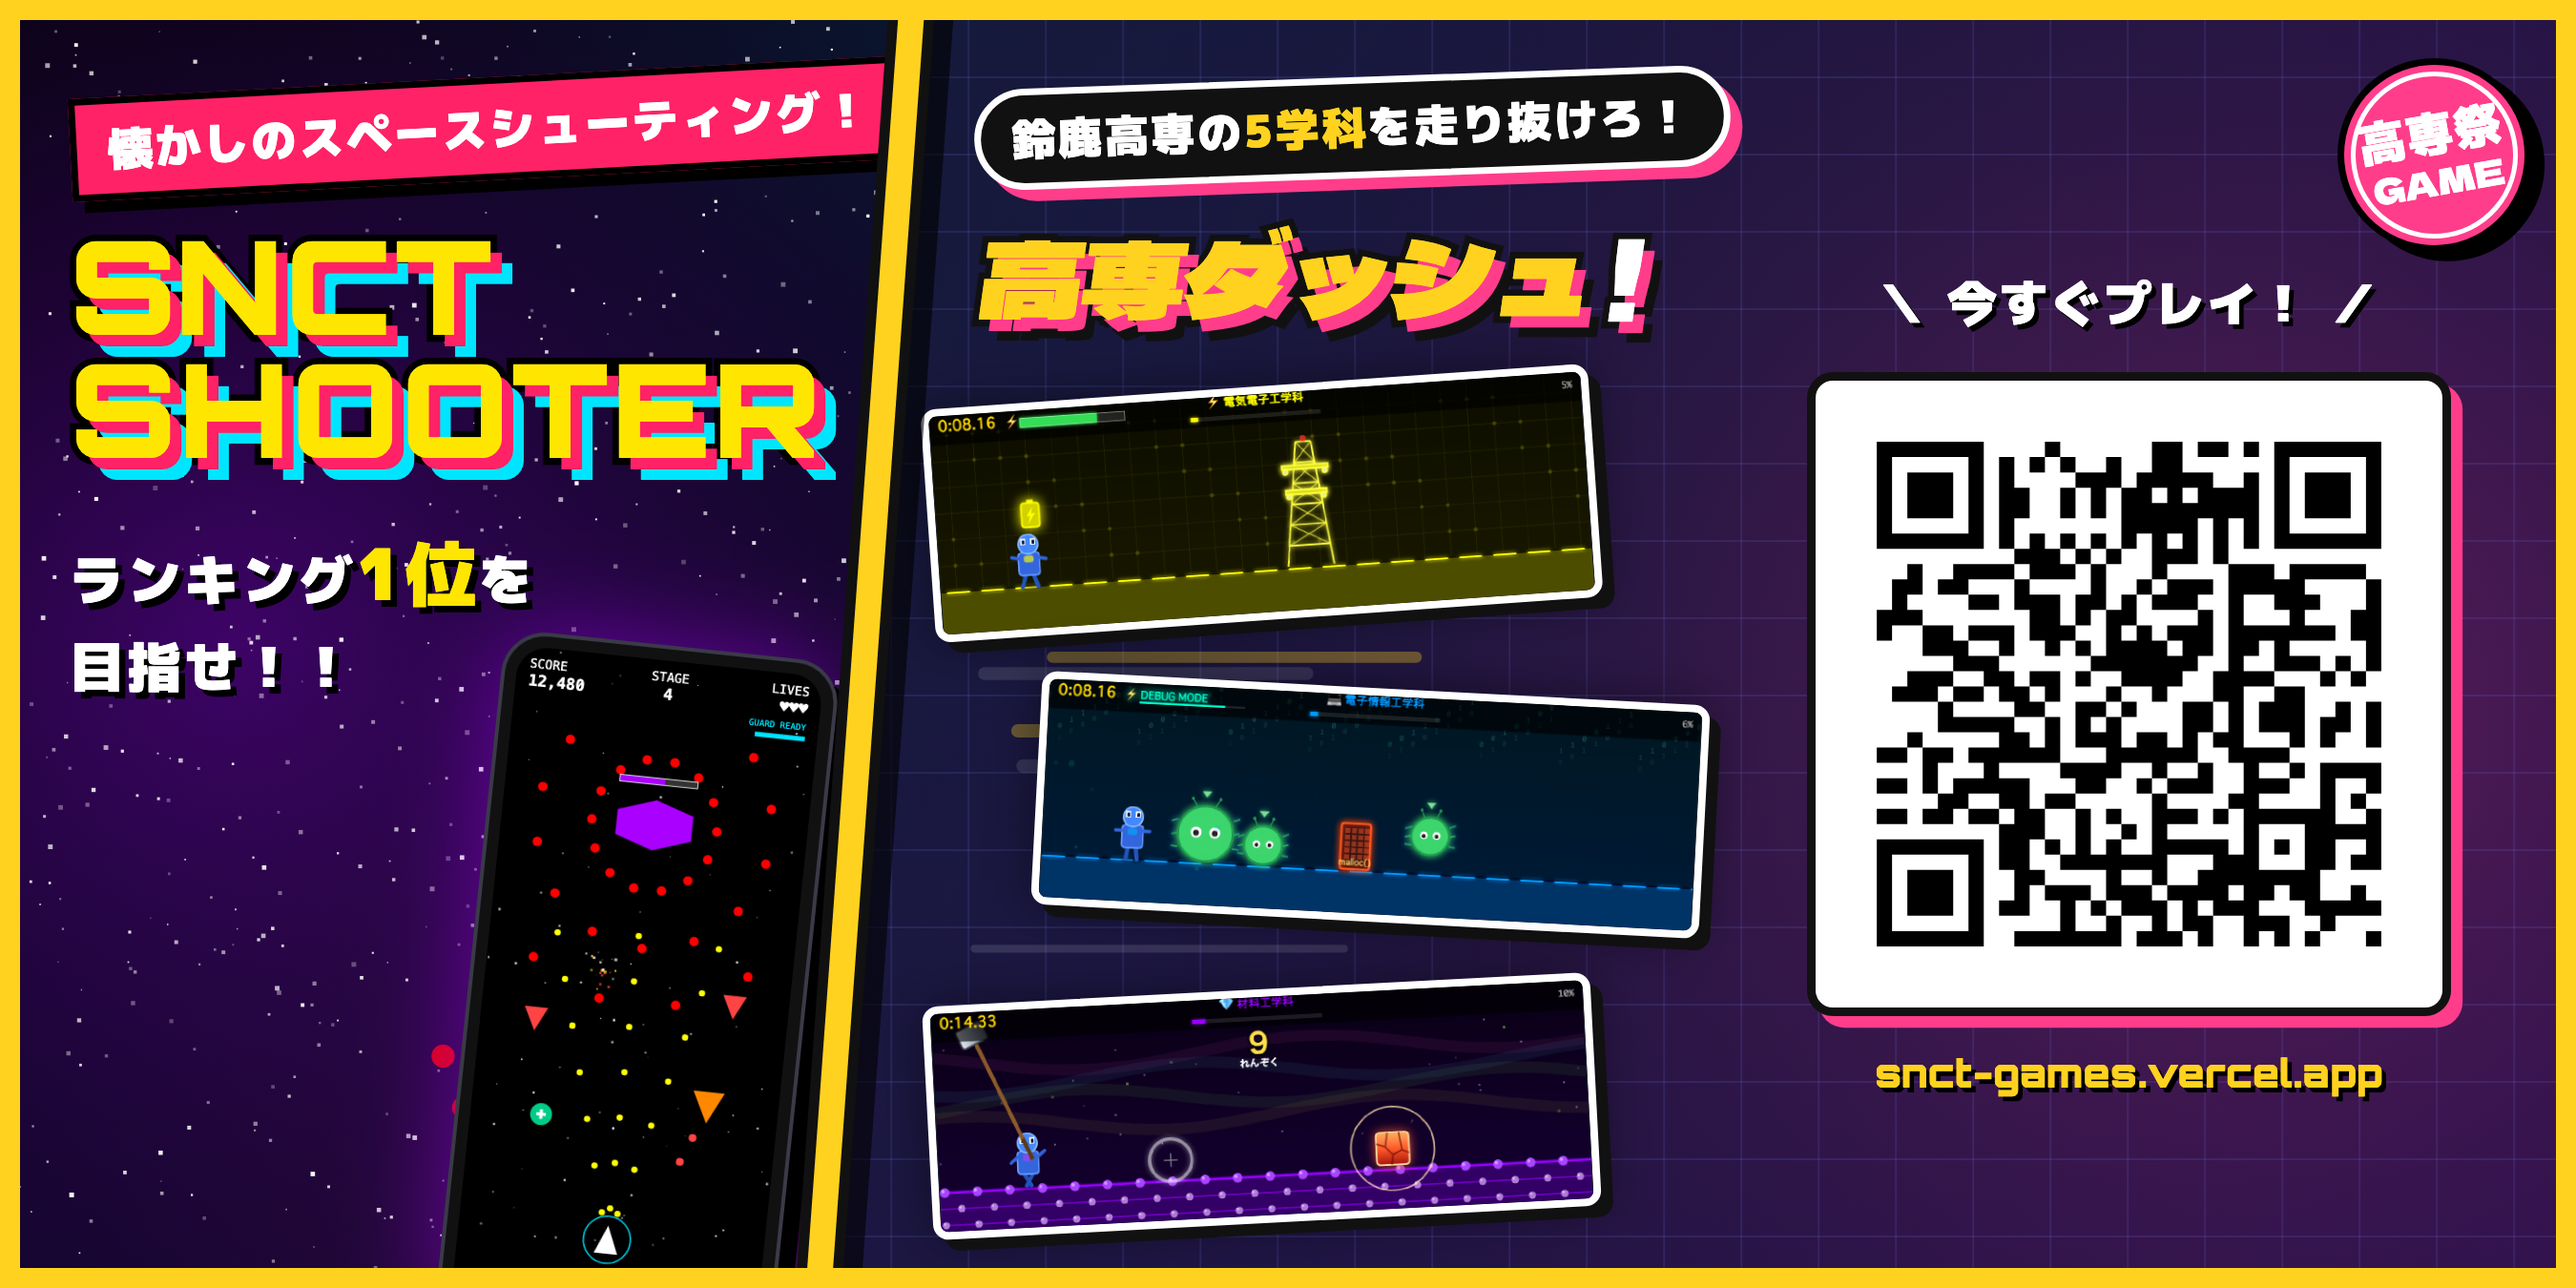
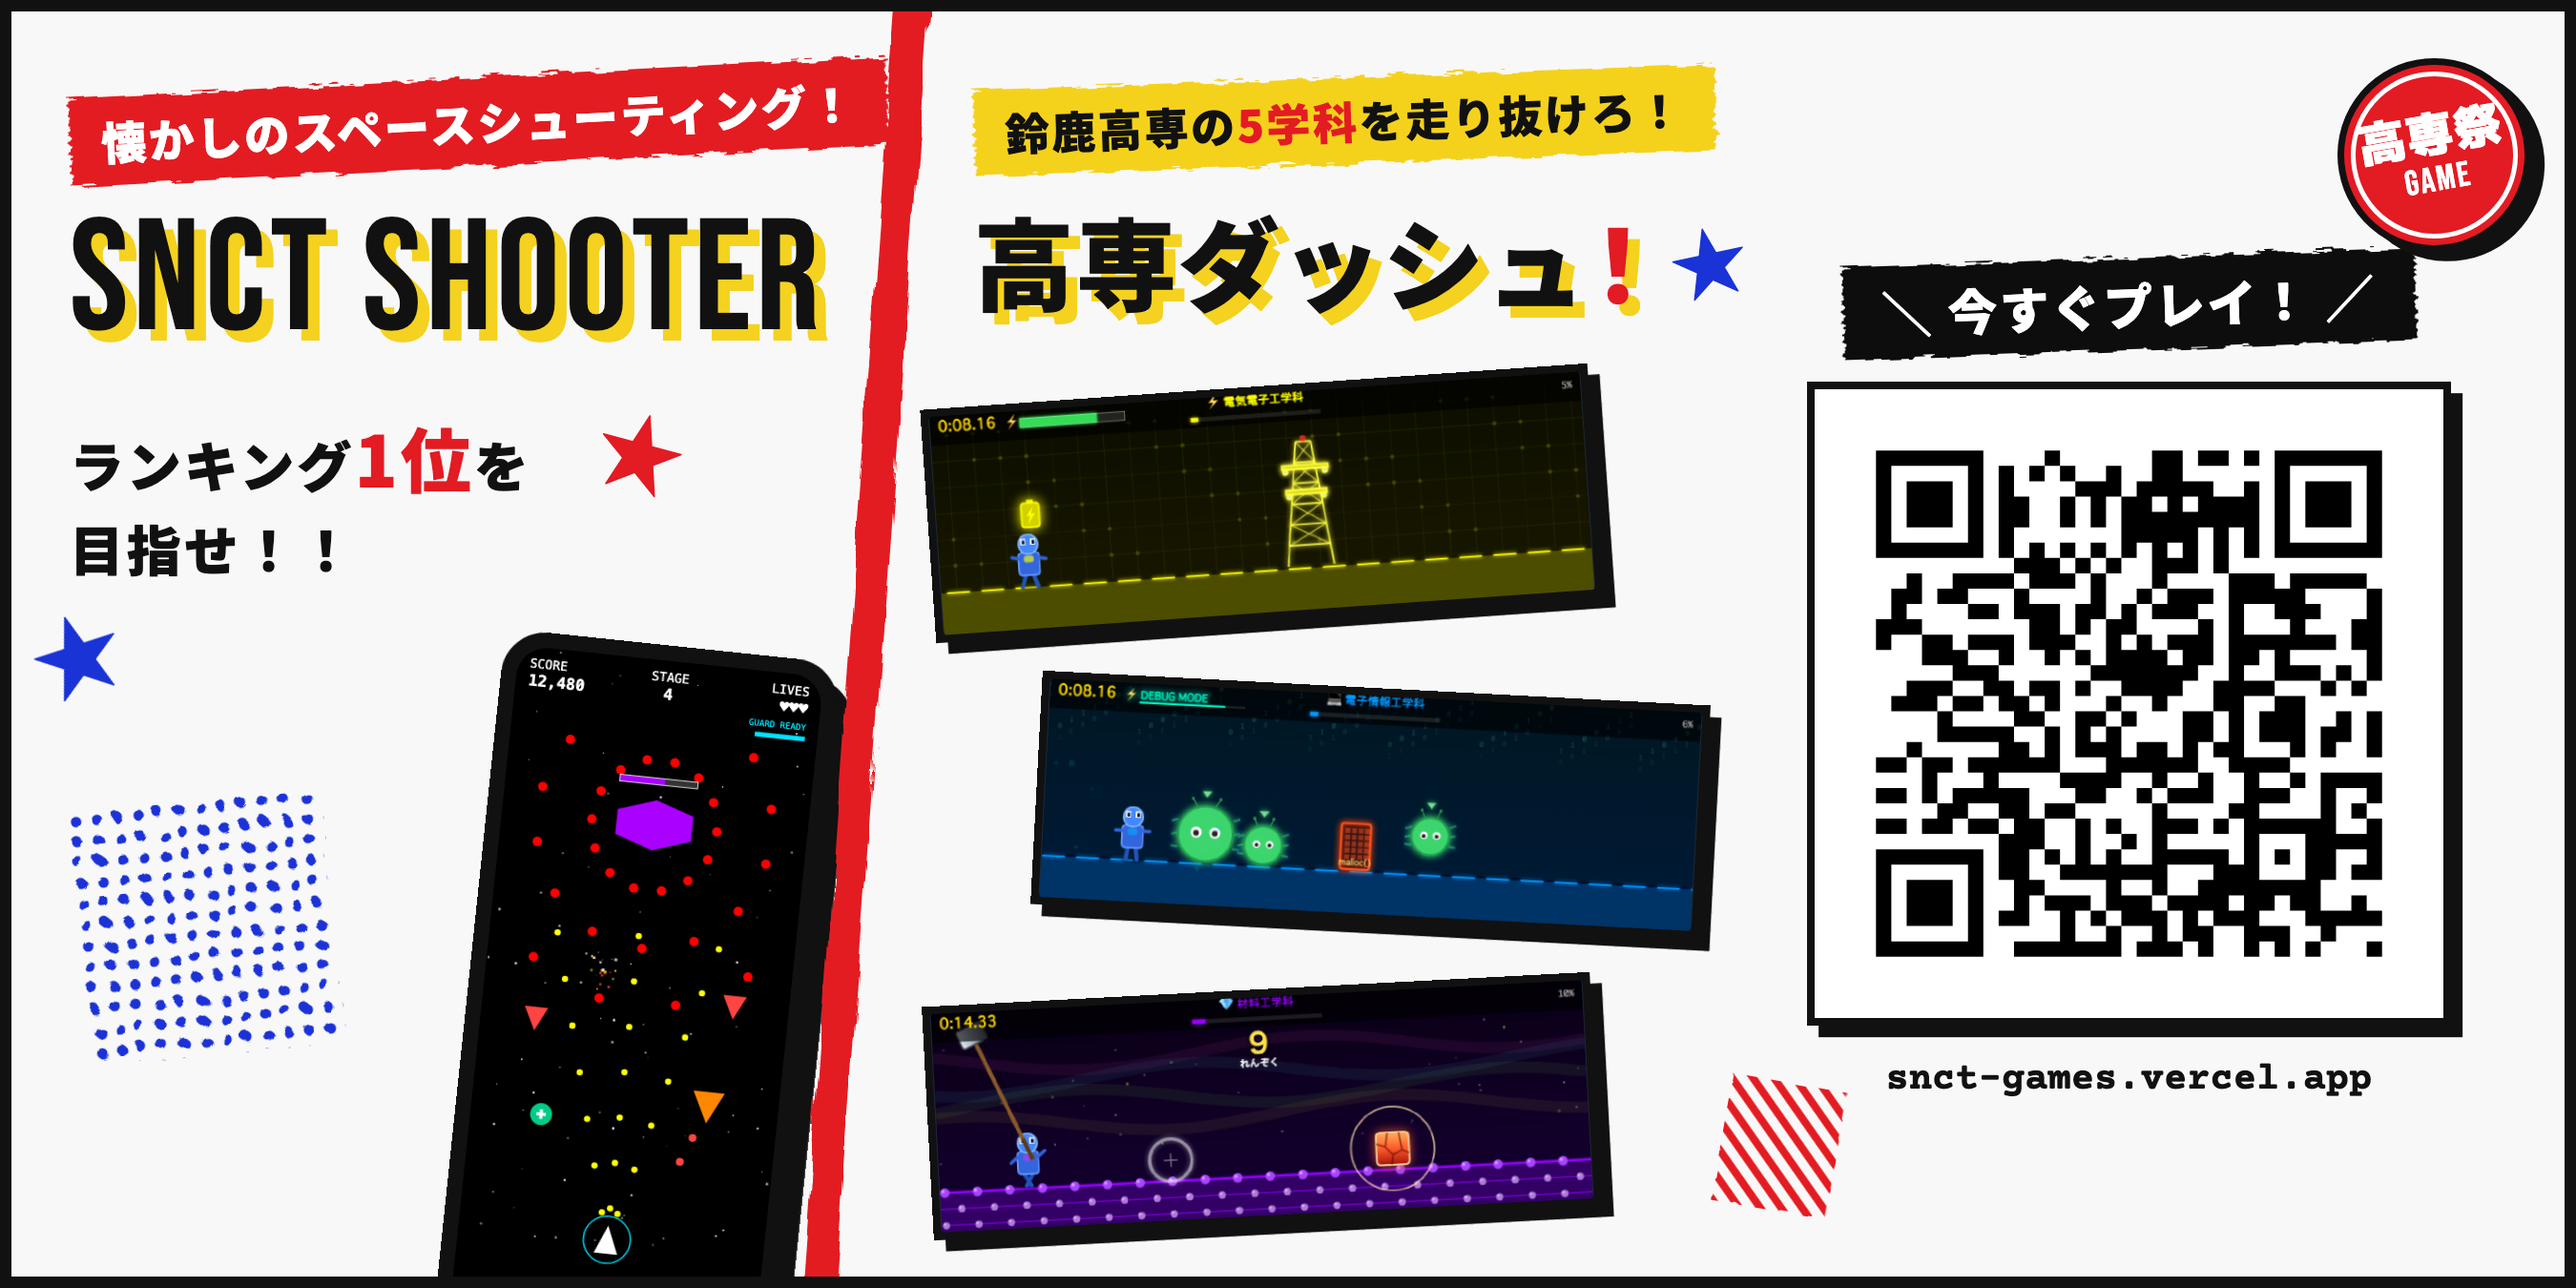
印刷用QRバナーをポータルサイトのデザインに変更
白い紙の地にテープ風の見出し、黒枠と影のカード、赤い区切り線、
星やドット柄の装飾を追加。要素の配置とQRコードの位置は従来のまま。

diff --git a/promo/banner.html b/promo/banner.html
@@ -5,7 +5,7 @@
 <!-- 高専祭HP掲載用の合同バナー（左：SNCT SHOOTER／右：高専ダッシュ！）。render.sh で PNG に書き出す -->
 <link rel="preconnect" href="https://fonts.googleapis.com">
 <link rel="preconnect" href="https://fonts.gstatic.com" crossorigin>
-<link href="https://fonts.googleapis.com/css2?family=Dela+Gothic+One&family=DotGothic16&family=M+PLUS+1p:wght@800;900&family=Orbitron:wght@900&display=block" rel="stylesheet">
+<link href="https://fonts.googleapis.com/css2?family=Dela+Gothic+One&family=DotGothic16&family=M+PLUS+1p:wght@800;900&family=Orbitron:wght@900&family=Bebas+Neue&family=Noto+Sans+JP:wght@900&family=Courier+Prime:wght@700&display=block" rel="stylesheet">
 <style>
   * { margin: 0; padding: 0; box-sizing: border-box; }
   html, body { background: #000; overflow: hidden; }
@@ -96,9 +96,97 @@
     transform: rotate(-10deg);
     outline: calc(var(--line) * 0.8) solid #fff; outline-offset: calc(var(--line) * -2.6);
   }
+
+  /* ===== ポータル（第61回鈴鹿高専祭「collage」デザインシステム）風テーマ：layout=print で使用 ===== */
+  #frame.portal { --blue: #1a33d6; --red: #e31b23; --yellow: #f4d21f; --ink: #111111; --paper: #f8f8f8; background: var(--paper); }
+  .portal #border { border-color: var(--ink); border-width: calc(var(--u) * 0.9); }
+  .portal #seam { filter: url(#brush-edge); }
+  .portal .badge {
+    background: transparent; border: 0; box-shadow: none; border-radius: 0;
+    position: relative; z-index: 0;
+    font-family: 'Noto Sans JP', sans-serif; font-weight: 900;
+  }
+  .portal .badge::before {
+    content: ""; position: absolute; inset: 0; z-index: -1;
+    background: var(--tape-bg); filter: url(#tape-edge-l);
+  }
+  .portal .shooter .badge { --tape-bg: var(--red); color: #fff; }
+  .portal .dash .badge { --tape-bg: var(--yellow); color: var(--ink); }
+  .portal .dash .badge em { color: var(--red); }
+  .portal .shooter .title {
+    font-family: 'Bebas Neue', sans-serif; font-weight: 400;
+    color: var(--ink); -webkit-text-stroke: 0; letter-spacing: 0.03em; line-height: 0.92;
+    text-shadow: var(--tshadow) var(--tshadow) 0 var(--yellow);
+  }
+  .portal .dash .title {
+    font-family: 'Noto Sans JP', sans-serif; font-weight: 900; letter-spacing: 0.02em;
+    color: var(--ink); -webkit-text-stroke: 0; transform: none;
+    text-shadow: var(--tshadow) var(--tshadow) 0 var(--yellow);
+  }
+  .portal .dash .title .bang { color: var(--red); }
+  .portal .shooter .catch {
+    font-family: 'Noto Sans JP', sans-serif; color: var(--ink); text-shadow: none; line-height: 1.45;
+  }
+  .portal .shooter .catch em { color: var(--red); }
+  .portal .phone {
+    border-color: var(--ink);
+    box-shadow: calc(var(--pw) * 0.05) calc(var(--pw) * 0.05) 0 var(--ink);
+  }
+  .portal .shot {
+    border: calc(var(--line) * 1.1) solid var(--ink); border-radius: 0;
+    box-shadow: var(--shadow) var(--shadow) 0 var(--ink);
+  }
+  .portal #qr .qr-label {
+    position: relative; z-index: 0; color: #fff; text-shadow: none;
+    font-family: 'Noto Sans JP', sans-serif; padding: calc(var(--u) * 0.8) calc(var(--u) * 3);
+    transform: rotate(-2deg);
+  }
+  .portal #qr .qr-label::before {
+    content: ""; position: absolute; inset: 0; z-index: -1;
+    background: var(--ink); filter: url(#tape-edge-l);
+  }
+  .portal #qr .qr-card {
+    border: calc(var(--line) * 1.1) solid var(--ink); border-radius: 0;
+    box-shadow: var(--shadow) var(--shadow) 0 var(--ink);
+  }
+  .portal #qr .qr-url {
+    font-family: 'Courier Prime', monospace; font-weight: 700; color: var(--ink); text-shadow: none; letter-spacing: 0;
+  }
+  .portal .stamp {
+    background: var(--red); border-color: var(--ink);
+    box-shadow: var(--shadow) var(--shadow) 0 var(--ink);
+  }
+  .portal .stamp #stamp2 { font-family: 'Bebas Neue', sans-serif; font-size: 1.3em; letter-spacing: 0.06em; }
+  .portal .deco { position: absolute; z-index: 1; pointer-events: none; }
+  .portal .deco-star { position: absolute; z-index: 3; line-height: 1; font-family: 'Noto Sans JP', sans-serif; }
 </style>
 </head>
 <body>
+<svg width="0" height="0" style="position:absolute" aria-hidden="true">
+  <defs>
+    <!-- ポータルの tape-edge / torn-edge を、バナーの解像度に合わせて強めたもの -->
+    <filter id="tape-edge-l" x="-10%" y="-30%" width="120%" height="160%">
+      <feTurbulence type="fractalNoise" baseFrequency="0.03 0.2" numOctaves="3" seed="7" result="n" />
+      <feDisplacementMap in="SourceGraphic" in2="n" scale="12" />
+    </filter>
+    <filter id="brush-edge" x="-5%" y="-5%" width="110%" height="110%">
+      <feTurbulence type="fractalNoise" baseFrequency="0.06 0.01" numOctaves="3" seed="4" result="n" />
+      <feDisplacementMap in="SourceGraphic" in2="n" scale="14" />
+    </filter>
+    <filter id="torn-edge-l" x="-15%" y="-15%" width="130%" height="130%">
+      <feTurbulence type="fractalNoise" baseFrequency="0.025" numOctaves="4" seed="3" result="n" />
+      <feDisplacementMap in="SourceGraphic" in2="n" scale="16" />
+    </filter>
+    <pattern id="dots-blue" width="22" height="22" patternUnits="userSpaceOnUse">
+      <rect width="22" height="22" fill="#f8f8f8" />
+      <circle cx="11" cy="11" r="5.5" fill="#1A33D6" />
+    </pattern>
+    <pattern id="stripe-red" width="18" height="18" patternUnits="userSpaceOnUse" patternTransform="rotate(45)">
+      <rect width="18" height="18" fill="#f8f8f8" />
+      <rect width="18" height="8" fill="#E31B23" />
+    </pattern>
+  </defs>
+</svg>
 <div id="frame">
   <div class="half shooter" id="shooter">
     <canvas class="bg" id="bgShooter"></canvas>
@@ -156,14 +244,25 @@ const LAYOUTS = {
   print: {
     seamTop: 0.356, seamBot: 0.316,
     phoneH: 0.56, phoneX: 0.182, phoneY: 0.5, phoneRot: 6,
-    copySX: 0.027, copySY: 0.06, copySRight: 0.333, titleS: 11, badgeS: 3.5, catchS: 4.2, catchBreak: true,
+    theme: 'portal', titleSOneLine: true,
+    copySX: 0.027, copySY: 0.06, copySRight: 0.333, titleS: 14, badgeS: 3.5, catchS: 4.2, catchBreak: true,
     copyDX: 0.378, copyDY: 0.06, titleD: 8.5, titleDOneLine: true, badgeD: 3.4,
     shotsX: 0.36, shotsRight: 0.662, shotW: 0.86, shotsTop: 0.3, shotsBottom: 0.95,
     qrX: 0.678, qrSize: 0.5, qrLabelS: 3.8, qrUrlS: 3,
     stamp: 0.15, stampX: 0.945, stampY: 0.12,
+    // [種類, x, y, 幅, 高さ, 回転] 位置と大きさは W・H に対する割合
+    deco: [
+      ['dots', 0.03, 0.62, 0.1, 0.2, -6],
+      ['stripe', 0.668, 0.84, 0.045, 0.1, 10],
+      ['star', 0.232, 0.315, 0.034, 0, 15, 'red'],
+      ['star', 0.012, 0.47, 0.035, 0, -18, 'blue'],
+      ['star', 0.648, 0.17, 0.03, 0, -12, 'blue'],
+    ],
   },
 }
 const L = LAYOUTS[layout]
+const portal = L.theme === 'portal'
+if (portal) document.getElementById('frame').classList.add('portal')
 const u = H / 100
 const sTop = W * L.seamTop
 const sBot = W * L.seamBot
@@ -191,6 +290,7 @@ function styleCopy(prefix, x, titleSize, badgeSize, catchSize, maxRight) {
   badge.style.padding = `${u * 0.9}px ${u * 2.4}px`
   badge.style.marginBottom = u * 3.4 + 'px'
   const title = document.getElementById('title' + prefix)
+  if (prefix === 'S' && L.titleSOneLine) title.innerHTML = 'SNCT SHOOTER'
   if (prefix === 'D' && L.titleDOneLine) title.innerHTML = '高専ダッシュ<span class="bang">！</span>'
   let size = titleSize * u
   title.style.fontSize = size + 'px'
@@ -277,7 +377,14 @@ function burst(ctx, rand, x, y, spread, n, colors) {
 }
 
 // ===== 左半分：SNCT SHOOTER =====
+function drawPaper(id) {
+  const ctx = sizedCanvas(document.getElementById(id), W, H)
+  ctx.fillStyle = '#f8f8f8'
+  ctx.fillRect(0, 0, W, H)
+}
+
 function drawShooterBg(copyRect) {
+  if (portal) return drawPaper('bgShooter')
   const ctx = sizedCanvas(document.getElementById('bgShooter'), W, H)
   const rand = mulberry32(7)
   const g = ctx.createLinearGradient(0, 0, sTop, H)
@@ -425,6 +532,7 @@ function placePhone() {
 
 // ===== 右半分：高専ダッシュ！ =====
 function drawDashBg(copyRect) {
+  if (portal) return drawPaper('bgDash')
   const ctx = sizedCanvas(document.getElementById('bgDash'), W, H)
   const g = ctx.createLinearGradient(sBot, 0, W, H)
   g.addColorStop(0, '#141a3a')
@@ -488,6 +596,11 @@ function drawSeam() {
     ctx.strokeStyle = color; ctx.lineWidth = w
     ctx.beginPath(); ctx.moveTo(sTop, -u * 5); ctx.lineTo(sBot, H + u * 5); ctx.stroke()
   }
+  if (portal) {
+    // ポータルの区切り線と同じ、ちぎれた赤い帯
+    line(u * 2.6, '#e31b23')
+    return
+  }
   line(u * 3.6, '#111')
   line(u * 2, '#FFD21F')
   ctx.save()
@@ -495,6 +608,39 @@ function drawSeam() {
   ctx.globalCompositeOperation = 'destination-over'
   line(u * 3.6, 'rgba(0,0,0,0.6)')
   ctx.restore()
+}
+
+function placeDeco() {
+  const frame = document.getElementById('frame')
+  const NS = 'http://www.w3.org/2000/svg'
+  for (const [kind, x, y, w, h, rot, color] of L.deco || []) {
+    if (kind === 'star') {
+      const el = document.createElement('span')
+      el.className = 'deco-star'
+      el.textContent = '★'
+      el.style.color = color === 'red' ? '#e31b23' : '#1a33d6'
+      el.style.fontSize = W * w + 'px'
+      el.style.left = W * x + 'px'
+      el.style.top = H * y + 'px'
+      el.style.transform = `rotate(${rot}deg)`
+      frame.appendChild(el)
+      continue
+    }
+    const svg = document.createElementNS(NS, 'svg')
+    svg.classList.add('deco')
+    svg.setAttribute('width', W * w)
+    svg.setAttribute('height', H * h)
+    svg.style.left = W * x + 'px'
+    svg.style.top = H * y + 'px'
+    svg.style.transform = `rotate(${rot}deg)`
+    const rect = document.createElementNS(NS, 'rect')
+    rect.setAttribute('width', '100%')
+    rect.setAttribute('height', '100%')
+    rect.setAttribute('fill', kind === 'dots' ? 'url(#dots-blue)' : 'url(#stripe-red)')
+    rect.setAttribute('filter', 'url(#torn-edge-l)')
+    svg.appendChild(rect)
+    frame.appendChild(svg)
+  }
 }
 
 function placeQr() {
@@ -538,6 +684,7 @@ document.fonts.ready.then(() => {
   drawSeam()
   placeStamp()
   if (L.qrX) placeQr()
+  if (portal) placeDeco()
   document.body.dataset.ready = '1'
 })
 </script>
